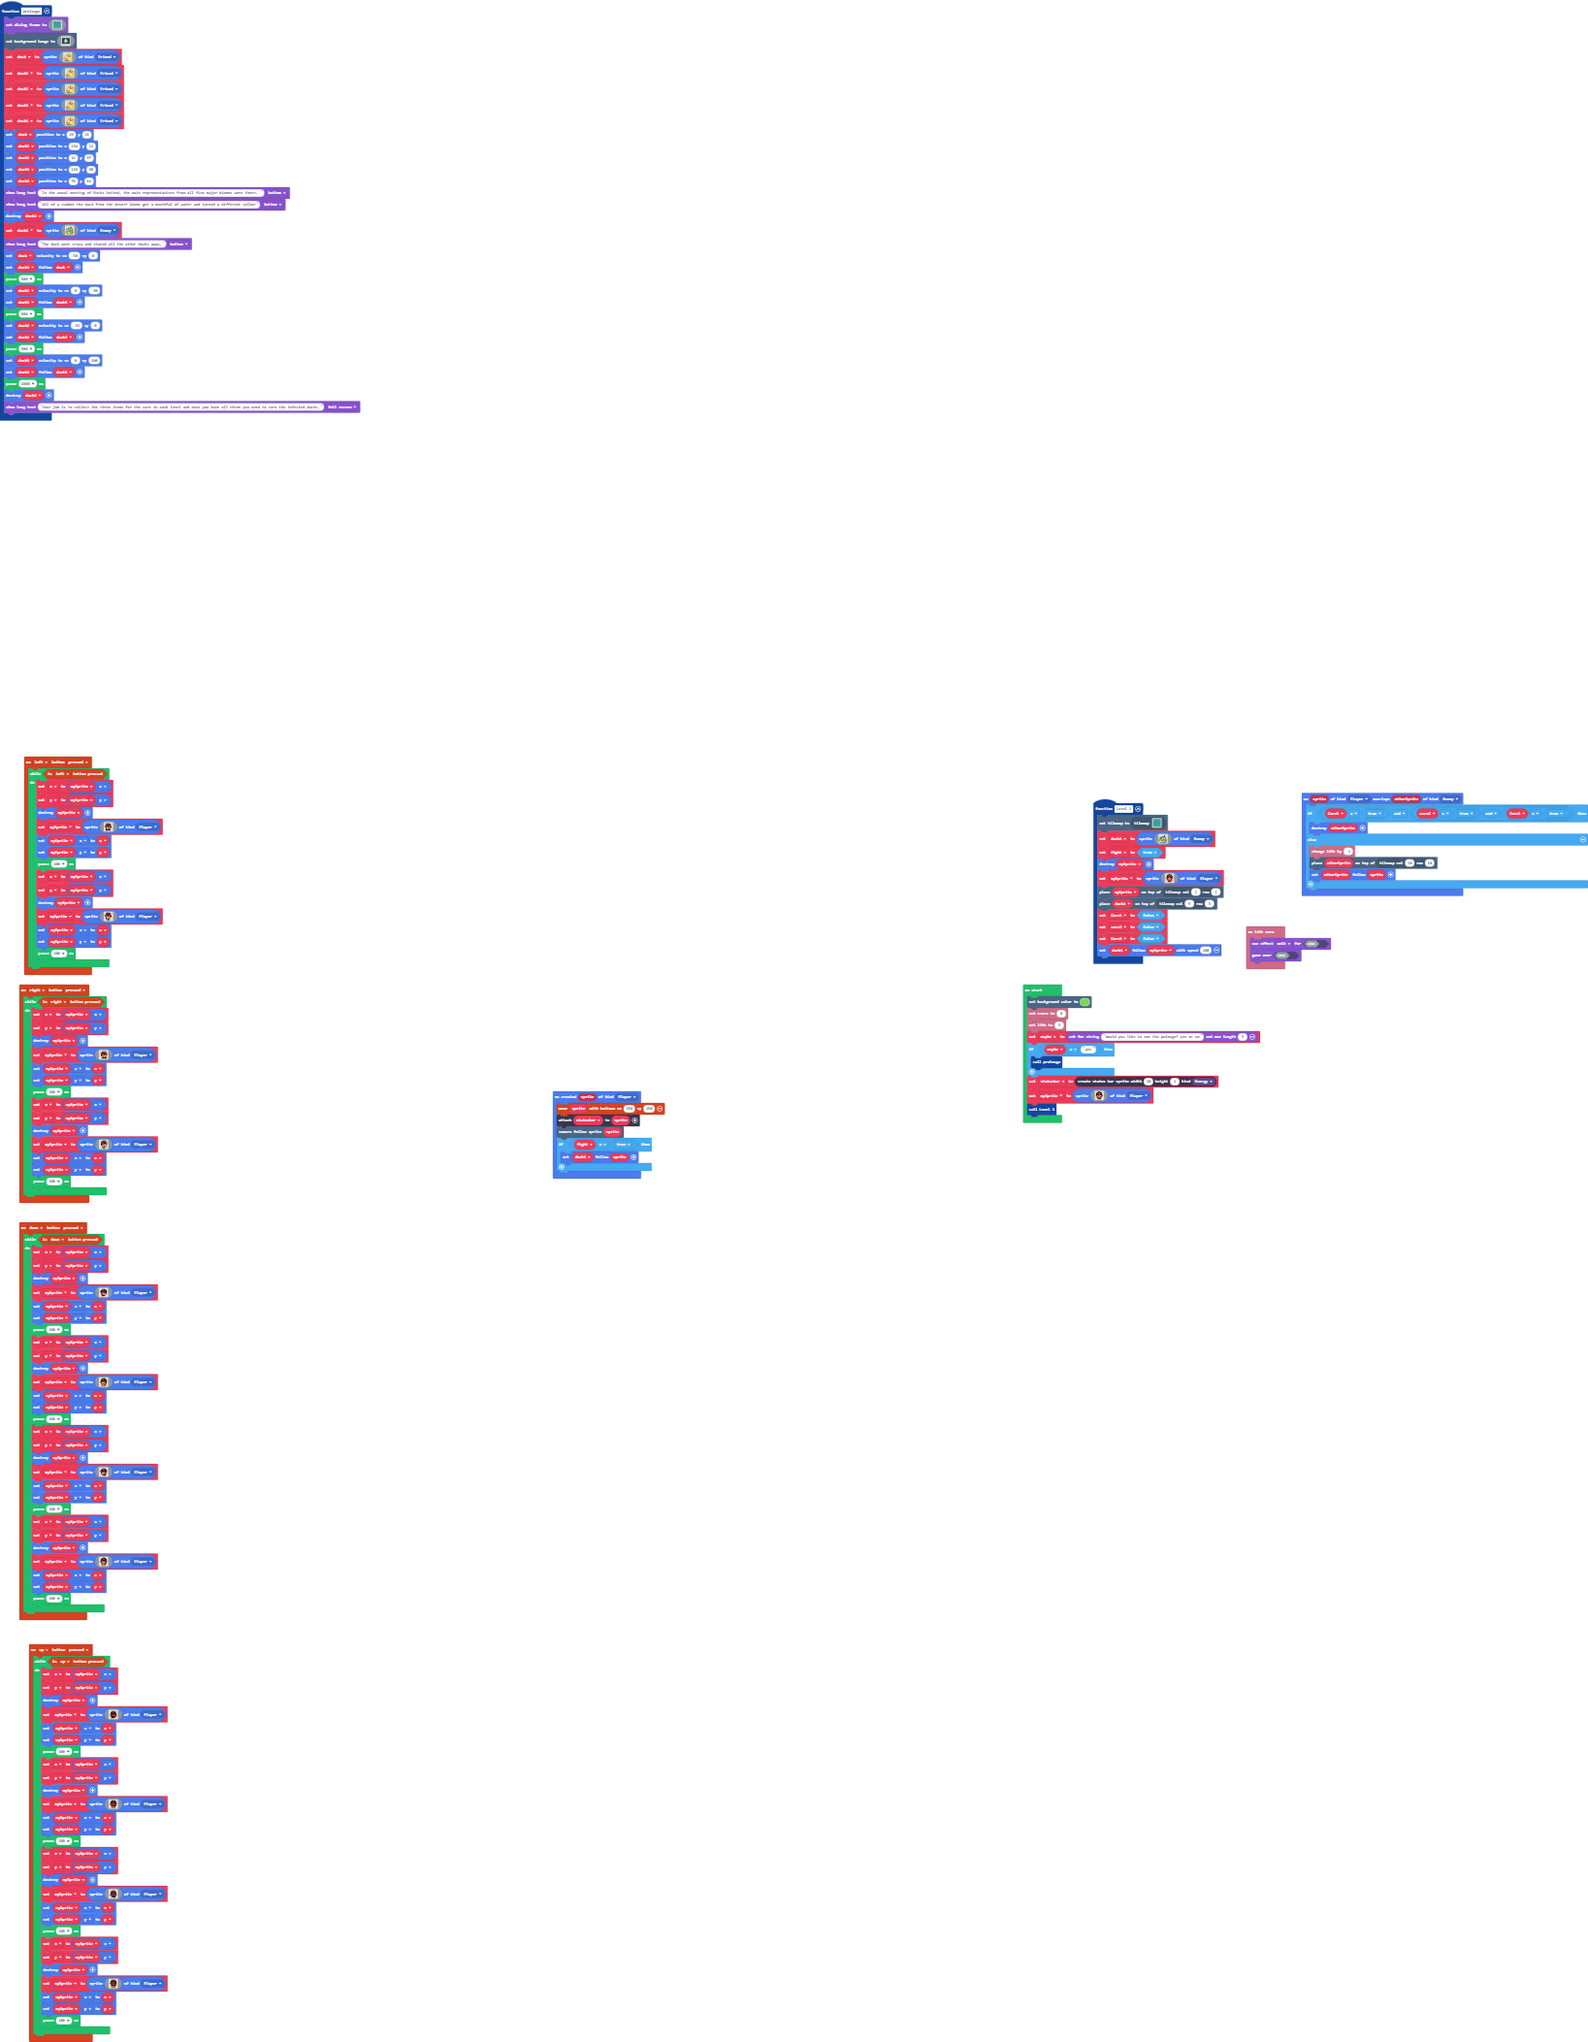
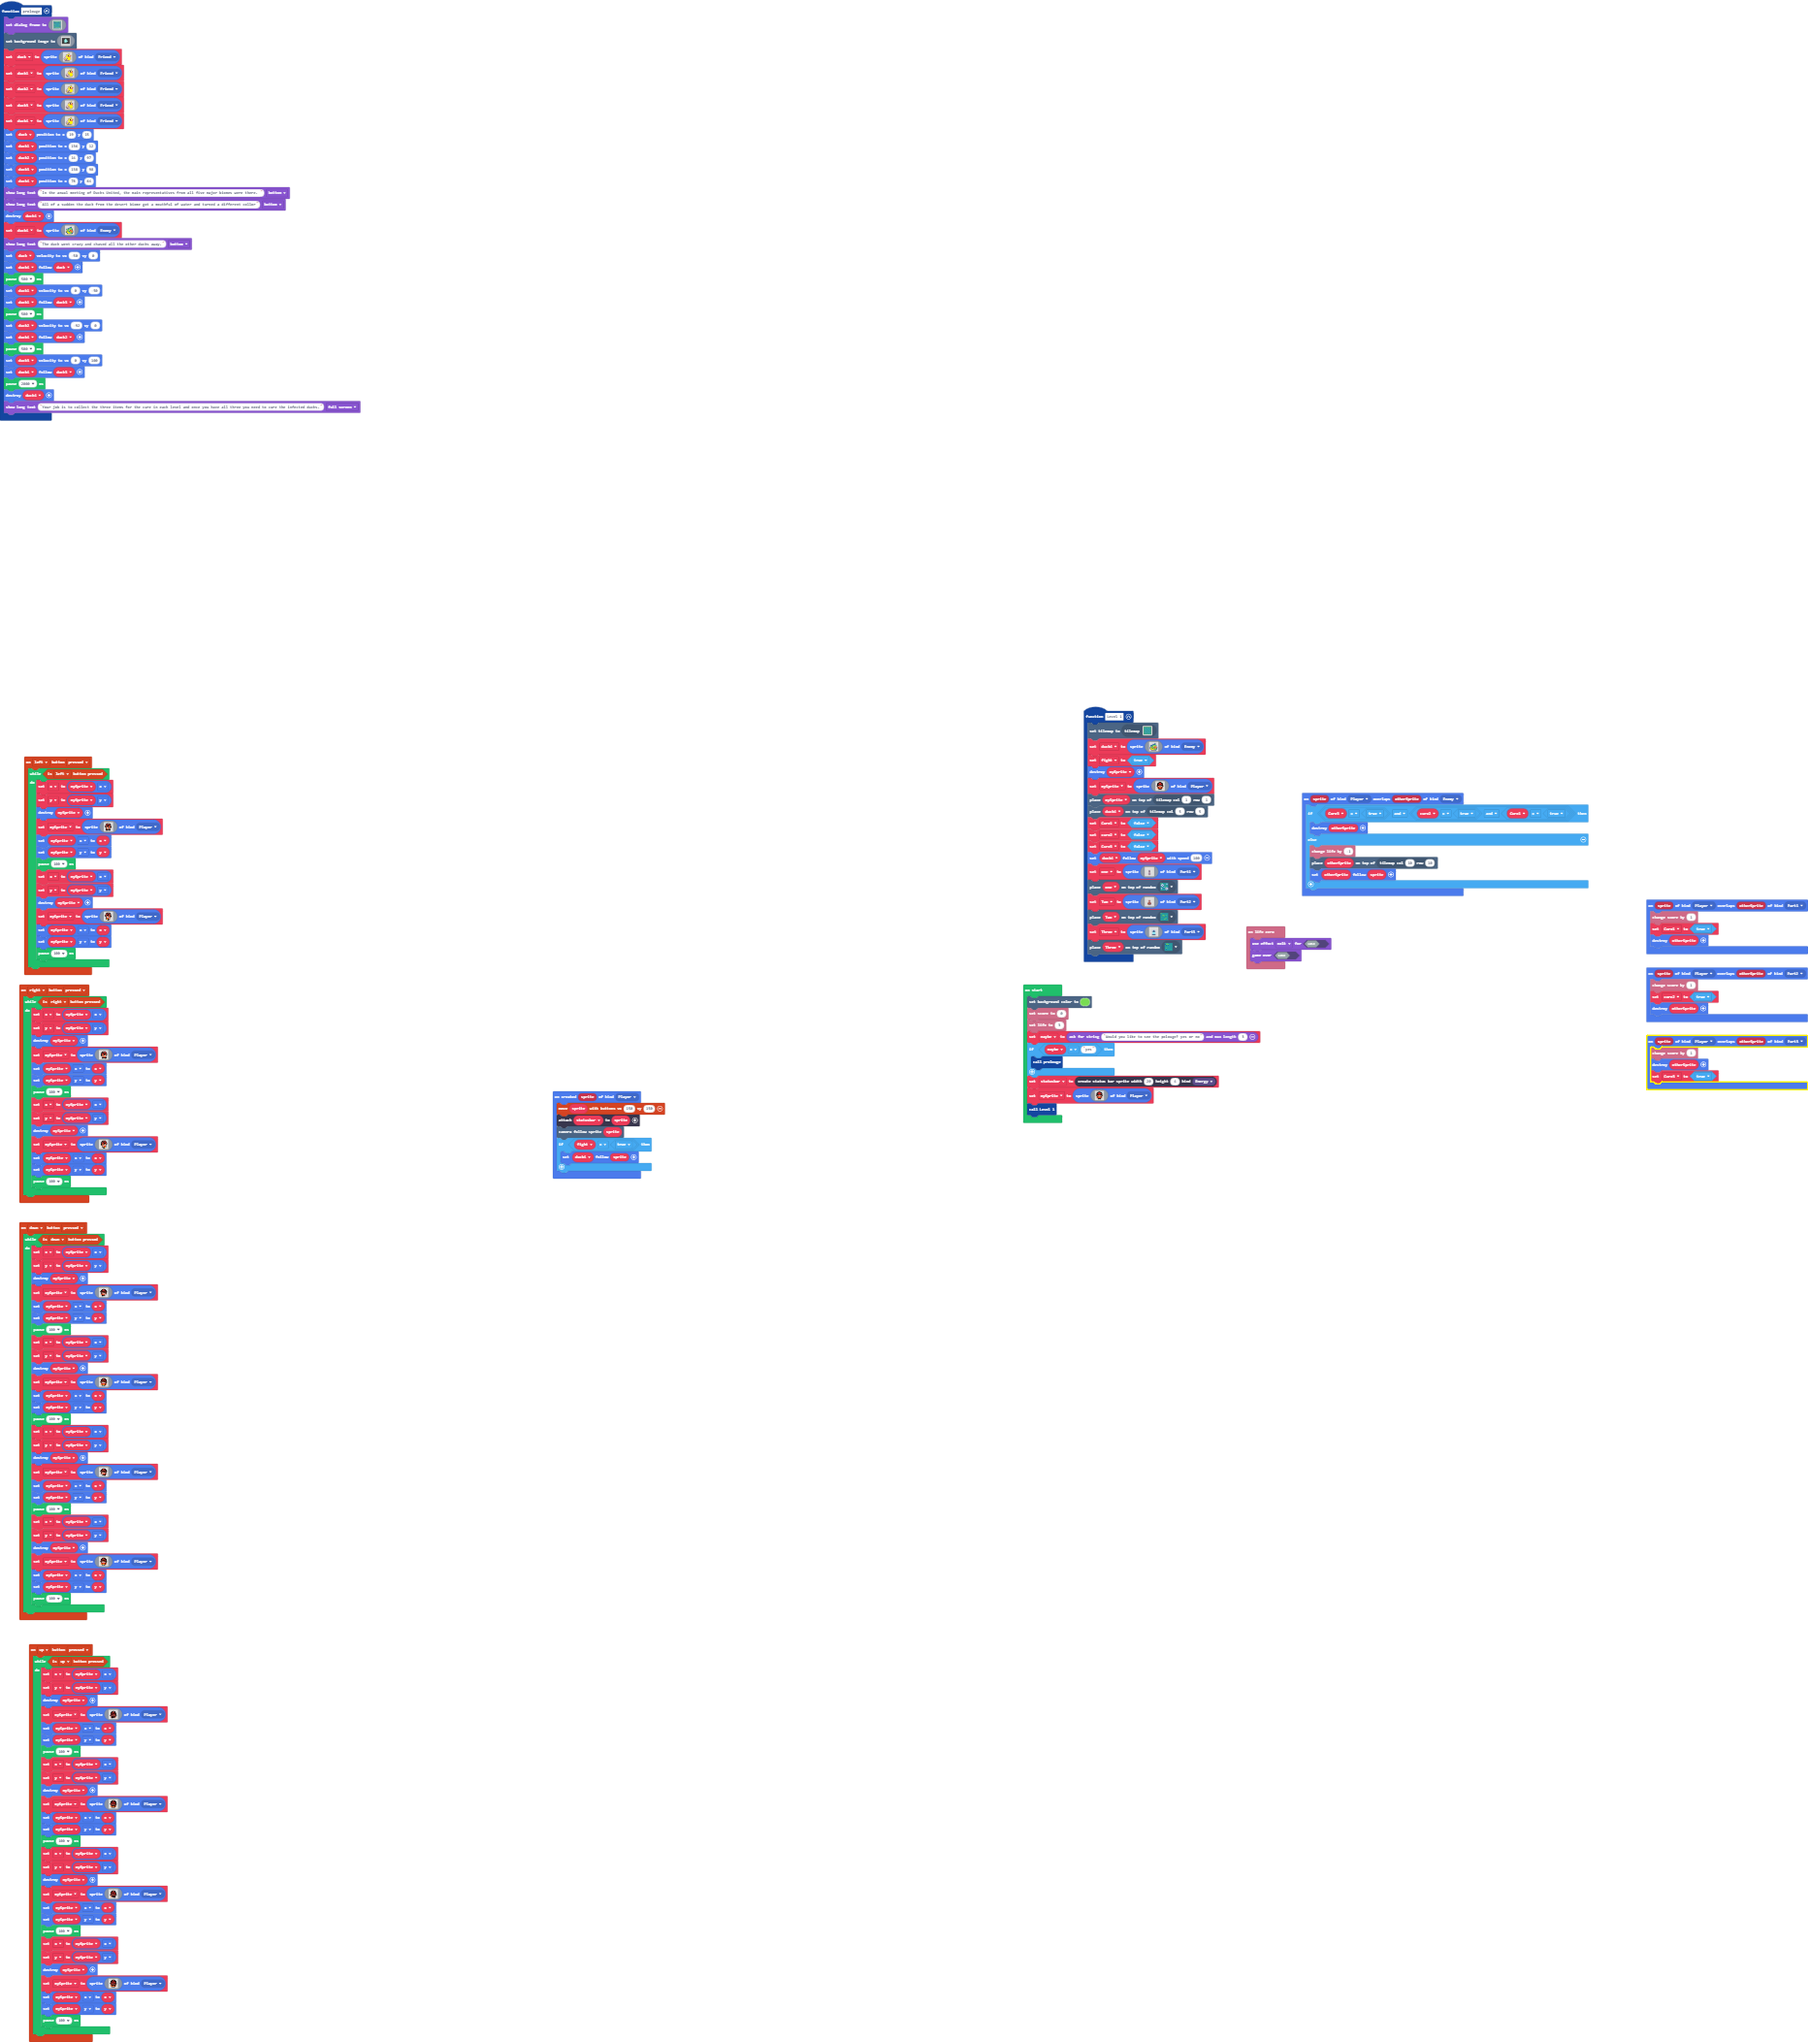
Update main.blocks, main.ts

diff --git a/main.ts b/main.ts
@@ -1,5 +1,8 @@
 namespace SpriteKind {
     export const Friend = SpriteKind.create()
+    export const Part1 = SpriteKind.create()
+    export const Part2 = SpriteKind.create()
+    export const Part3 = SpriteKind.create()
 }
 controller.up.onEvent(ControllerButtonEvent.Pressed, function () {
     while (controller.up.isPressed()) {
@@ -152,6 +155,11 @@ controller.left.onEvent(ControllerButtonEvent.Pressed, function () {
         mySprite.y = y
         pause(100)
     }
+})
+sprites.onOverlap(SpriteKind.Player, SpriteKind.Part2, function (sprite, otherSprite) {
+    info.changeScoreBy(1)
+    cure2 = true
+    sprites.destroy(otherSprite)
 })
 function prolouge () {
     game.setDialogFrame(img`
@@ -489,6 +497,75 @@ function Level_1 () {
     cure2 = false
     Cure3 = false
     duck4.follow(mySprite, 100)
+    one = sprites.create(img`
+        ....................
+        ....................
+        ....................
+        ....................
+        ....................
+        ....................
+        .........bb.........
+        ........cccc........
+        ........cccc........
+        .........ff.........
+        .........bf.........
+        .........bb.........
+        ........bbbb........
+        .......bbbbbb.......
+        .......bbbbbb.......
+        .......bbbbbb.......
+        .......bbbbbc.......
+        ........cccc........
+        ....................
+        ....................
+        `, SpriteKind.Part1)
+    tiles.placeOnRandomTile(one, sprites.castle.tileDarkGrass2)
+    Two = sprites.create(img`
+        ....................
+        ....................
+        ....................
+        ....................
+        ....................
+        ....................
+        ........4eee........
+        .......eeeeee.......
+        .........cc.........
+        .........ec.........
+        ........eeee........
+        .......ee4eee.......
+        ......ee4eeeee......
+        .....ee4eeeeeee.....
+        .....eeeeeeeeee.....
+        .....eeeeeeeecc.....
+        ......eeeeeecc......
+        .......eccccc.......
+        ....................
+        ....................
+        `, SpriteKind.Part2)
+    tiles.placeOnRandomTile(Two, sprites.castle.tileDarkGrass1)
+    Three = sprites.create(img`
+        ....................
+        ....................
+        ....................
+        ....................
+        ....................
+        ....................
+        .........888........
+        .........888........
+        ......888888888.....
+        ........fffff.......
+        .......9999999......
+        .......9999999......
+        .......9999999......
+        .......9999999......
+        .......9999999......
+        .......9999999......
+        ......888888888.....
+        ......fffffffff.....
+        ....................
+        ....................
+        `, SpriteKind.Part3)
+    tiles.placeOnRandomTile(Three, sprites.castle.tileDarkGrass3)
 }
 controller.right.onEvent(ControllerButtonEvent.Pressed, function () {
     while (controller.right.isPressed()) {
@@ -642,6 +719,11 @@ controller.down.onEvent(ControllerButtonEvent.Pressed, function () {
         pause(100)
     }
 })
+sprites.onOverlap(SpriteKind.Player, SpriteKind.Part1, function (sprite, otherSprite) {
+    info.changeScoreBy(1)
+    Cure1 = true
+    sprites.destroy(otherSprite)
+})
 info.onLifeZero(function () {
     game.setGameOverEffect(false, effects.melt)
     game.gameOver(false)
@@ -654,6 +736,11 @@ sprites.onCreated(SpriteKind.Player, function (sprite) {
         duck4.follow(sprite)
     }
 })
+sprites.onOverlap(SpriteKind.Player, SpriteKind.Part3, function (sprite, otherSprite) {
+    info.changeScoreBy(1)
+    sprites.destroy(otherSprite)
+    Cure3 = true
+})
 sprites.onOverlap(SpriteKind.Player, SpriteKind.Enemy, function (sprite, otherSprite) {
     if (Cure3 == true && (cure2 == true && Cure1 == true)) {
         sprites.destroy(otherSprite)
@@ -663,8 +750,10 @@ sprites.onOverlap(SpriteKind.Player, SpriteKind.Enemy, function (sprite, otherSp
         otherSprite.follow(sprite)
     }
 })
+let Three: Sprite = null
+let Two: Sprite = null
+let one: Sprite = null
 let Cure3 = false
-let cure2 = false
 let Cure1 = false
 let fight = false
 let duck4: Sprite = null
@@ -672,6 +761,7 @@ let duck3: Sprite = null
 let duck2: Sprite = null
 let duck1: Sprite = null
 let duck: Sprite = null
+let cure2 = false
 let y = 0
 let x = 0
 let mySprite: Sprite = null
